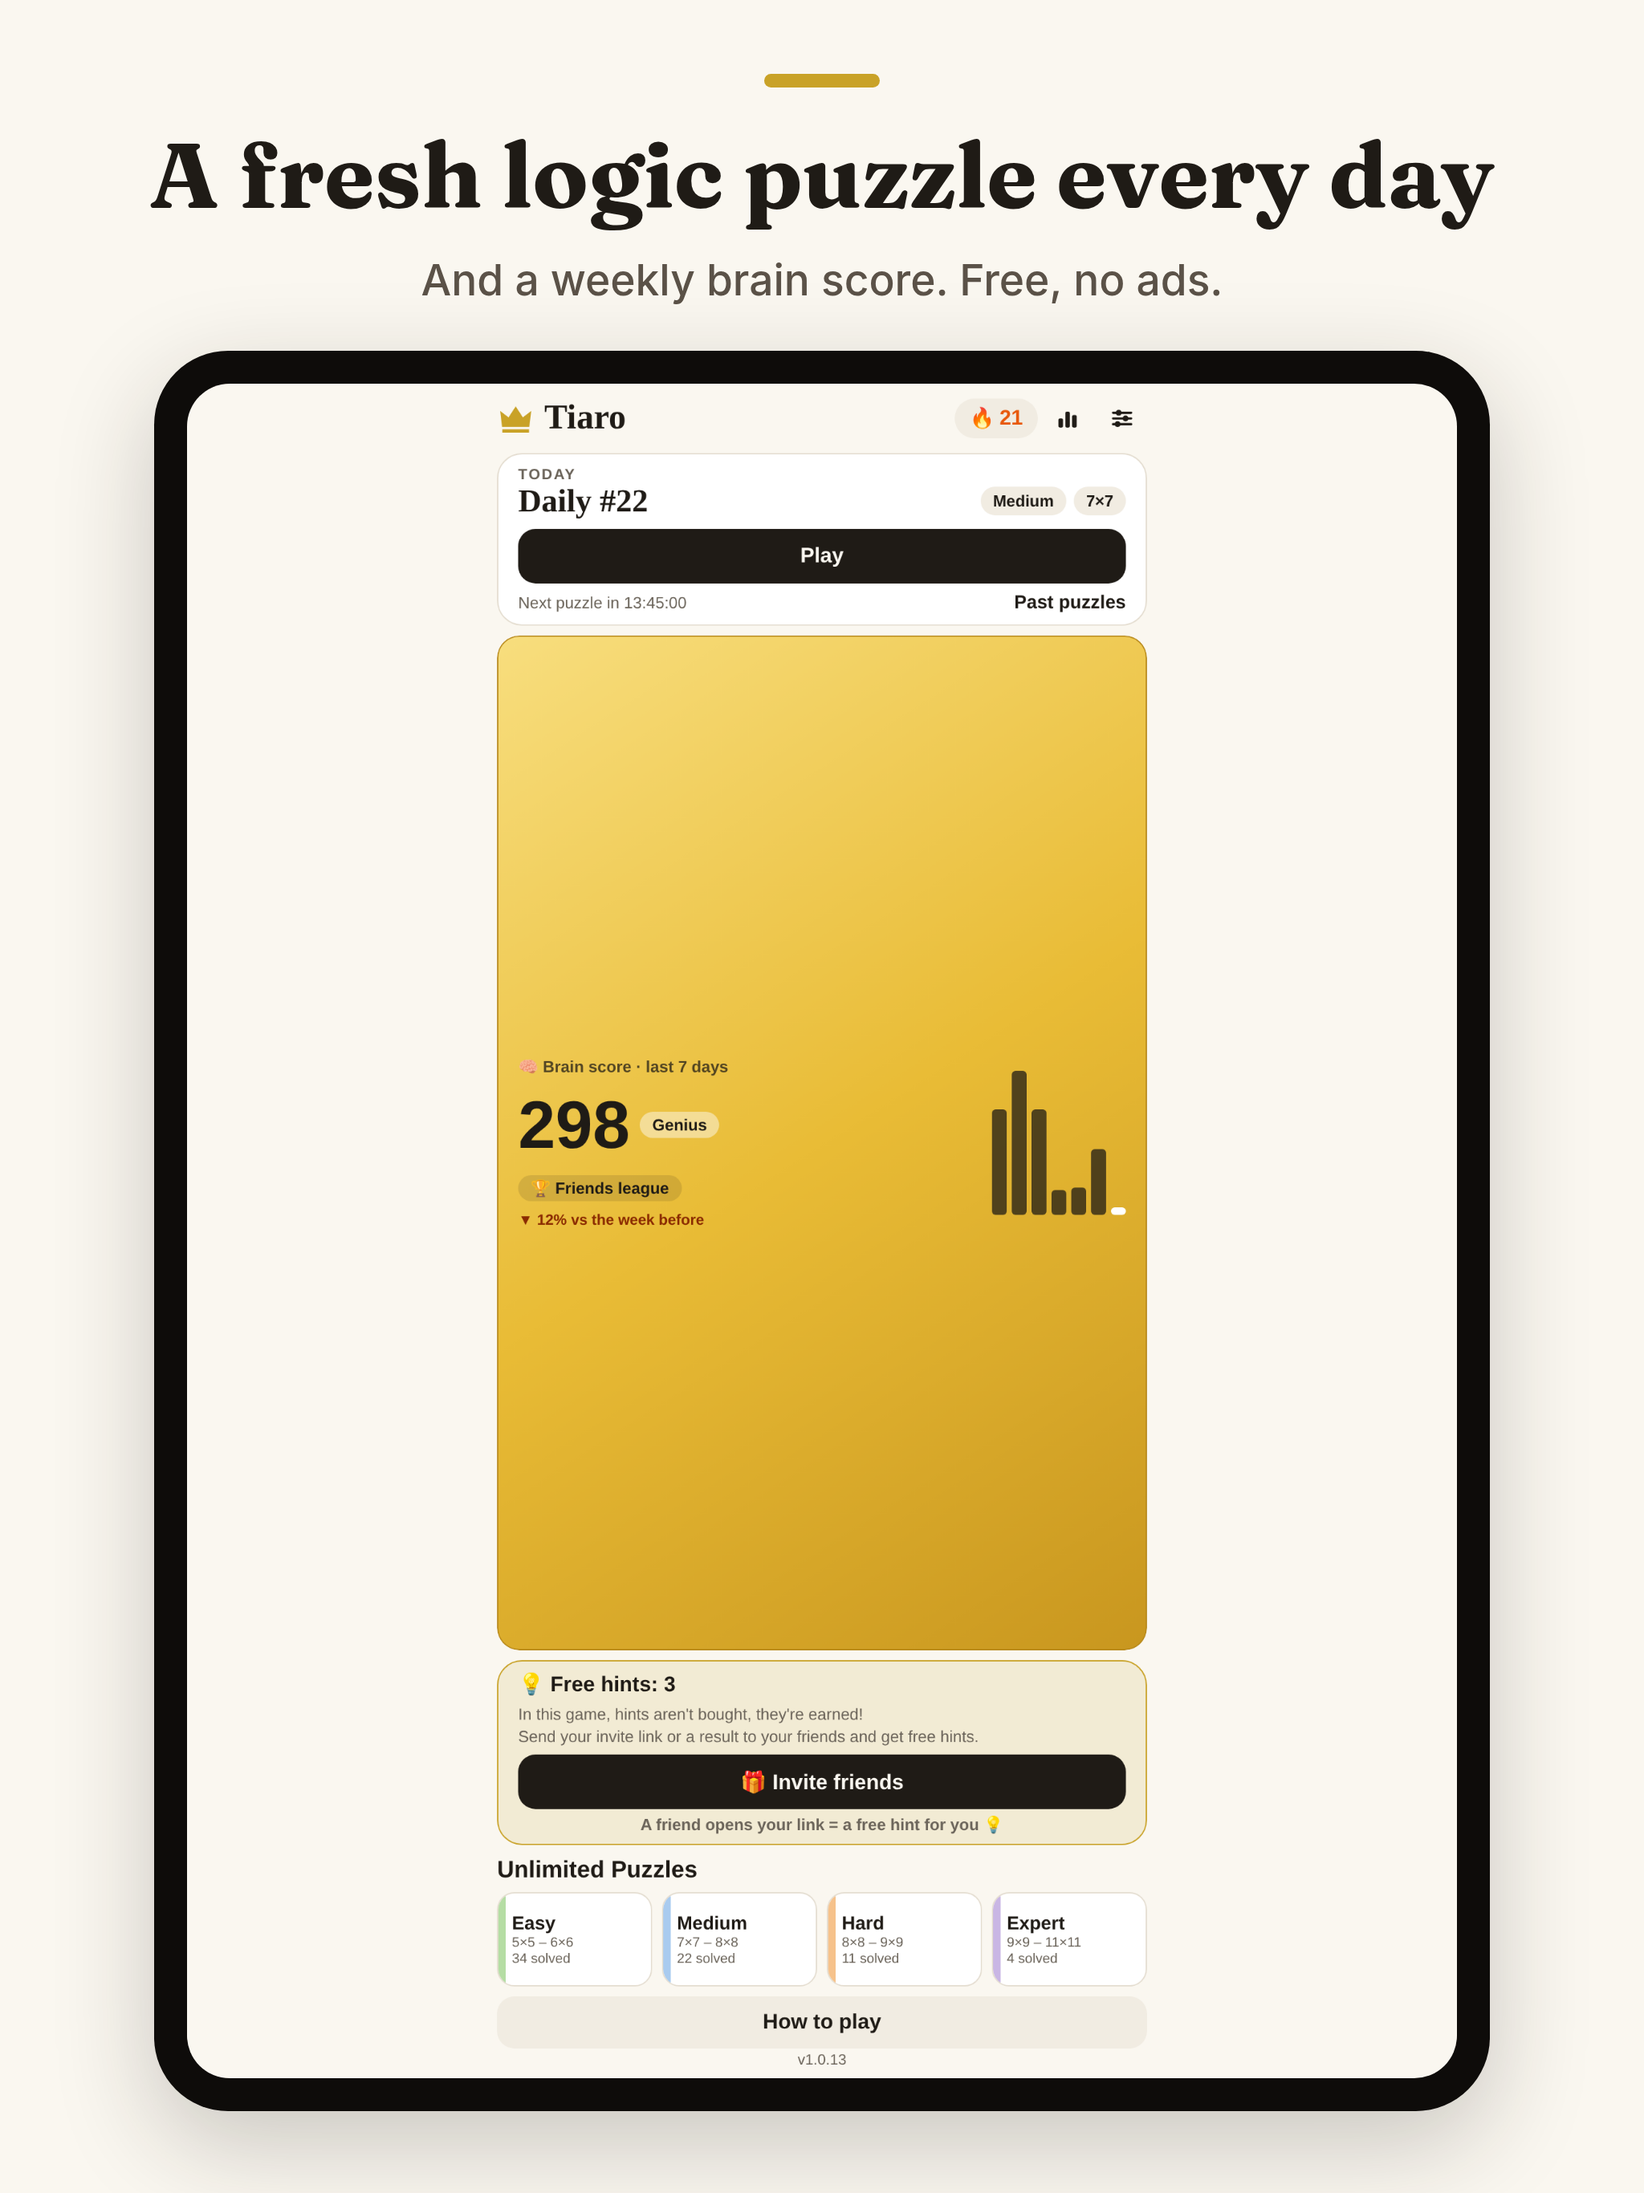
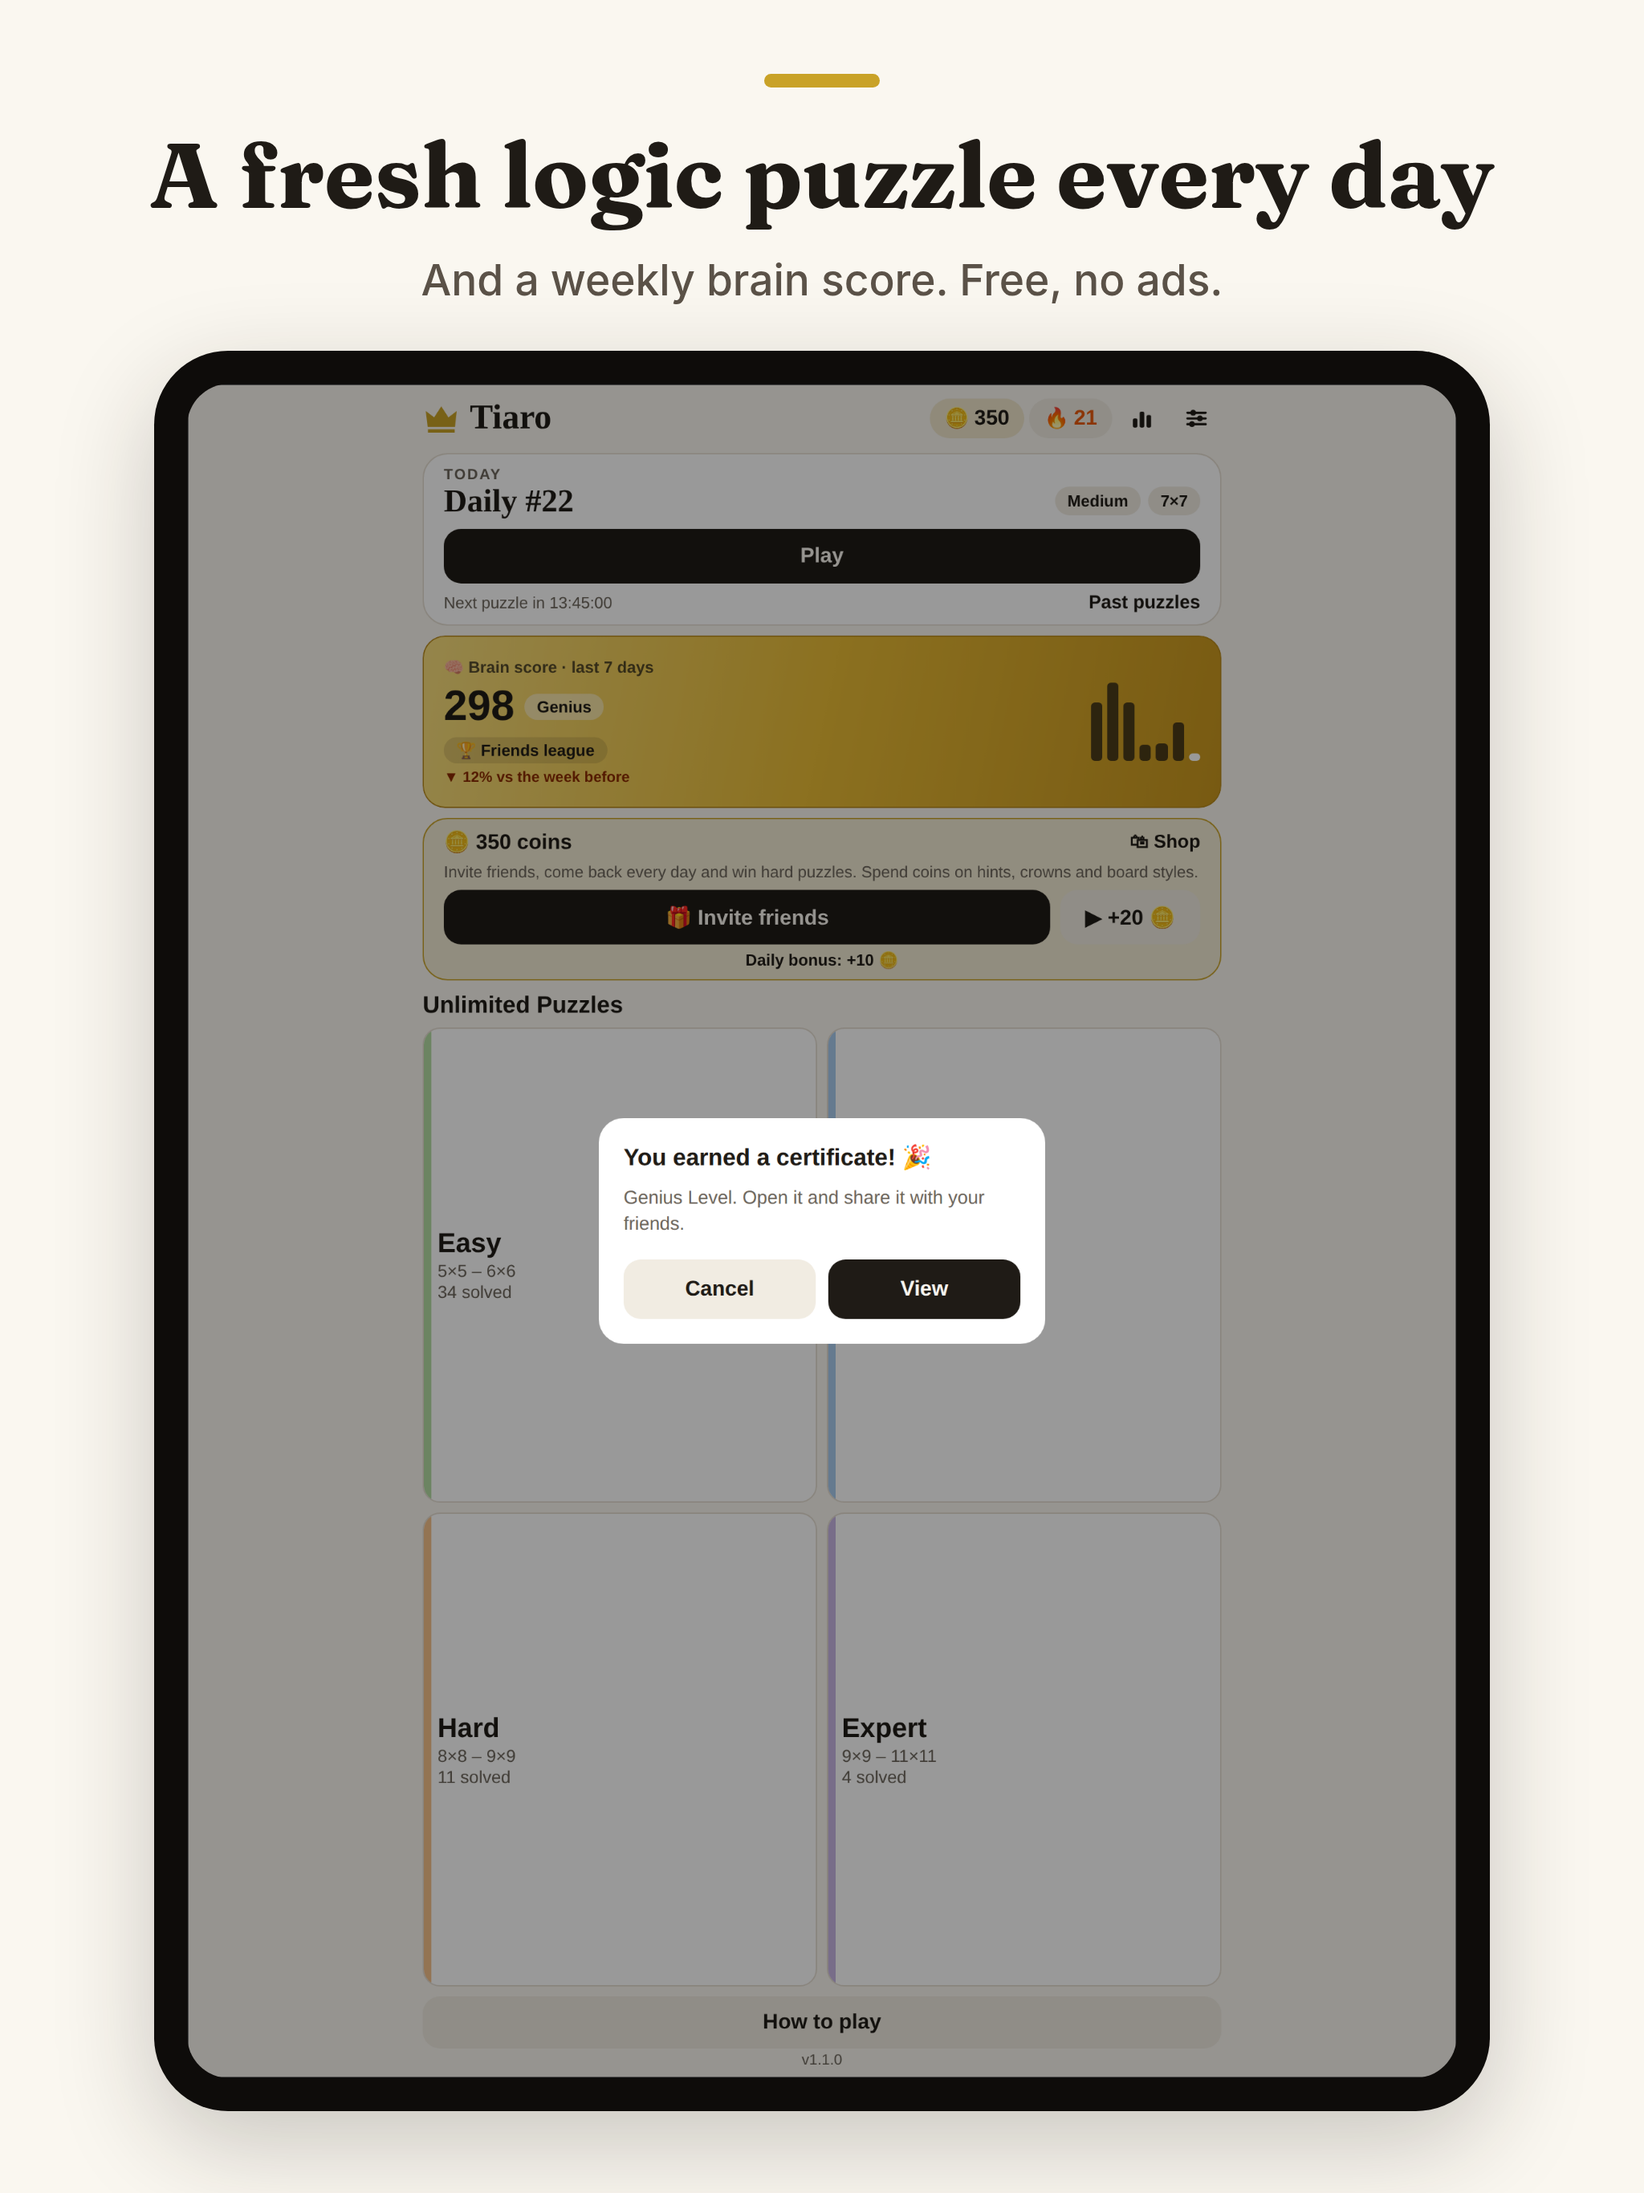
Store screenshots for 1.1 (iPhone, iPad, Android) incl. a certificates shot; certificates list centred on iPad
Claude-Session: https://claude.ai/code/session_01CV8swuTHLnMxCJbxcmyU12

diff --git a/src/app/certificates.tsx b/src/app/certificates.tsx
@@ -91,13 +91,13 @@ function CertItem({ cert, name, width }: { cert: Cert; name: string; width: numb
 const styles = StyleSheet.create({
   root: { flex: 1 },
   scroll: { padding: 16, gap: 14, alignItems: 'center' },
-  hint: { borderRadius: 14, padding: 12, gap: 8, alignSelf: 'stretch', maxWidth: 720 },
+  hint: { borderRadius: 14, padding: 12, gap: 8, alignSelf: 'center', width: '100%', maxWidth: 720 },
   hintText: { fontSize: 14 },
   item: { gap: 8, alignSelf: 'stretch', alignItems: 'center' },
   frame: { borderRadius: 6, borderWidth: StyleSheet.hairlineWidth, overflow: 'hidden' },
   note: { fontSize: 13, textAlign: 'center' },
-  section: { fontSize: 18, fontWeight: '800', alignSelf: 'stretch', maxWidth: 720, marginTop: 6 },
-  goal: { flexDirection: 'row', alignItems: 'center', gap: 12, borderRadius: 14, borderWidth: 1, padding: 12, alignSelf: 'stretch', maxWidth: 720 },
+  section: { fontSize: 18, fontWeight: '800', alignSelf: 'center', width: '100%', maxWidth: 720, marginTop: 6 },
+  goal: { flexDirection: 'row', alignItems: 'center', gap: 12, borderRadius: 14, borderWidth: 1, padding: 12, alignSelf: 'center', width: '100%', maxWidth: 720 },
   goalIcon: { fontSize: 26 },
   goalText: { flex: 1, gap: 2 },
   goalTitle: { fontSize: 15, fontWeight: '700' },

diff --git a/store/tools/seed.ts b/store/tools/seed.ts
@@ -59,6 +59,10 @@ const base = (over: Record<string, unknown> = {}) => ({
       lastInterstitialAt: null,
       removeAds: true,
       hintCredits: 3, // the hint shot shows a hint, not "no free hints left"
+      coins: 340,
+      certCheckedDay: "2026-10-22", // no certificate pop-up over the Home shot
+      nickname: "Alex",
+      certs: [{ kind: "week" as const, period: "2026-10-12", id: "k7m2qpa9" }],
       archiveUnlocked: [],
       lastRepairKey: null,
     },
